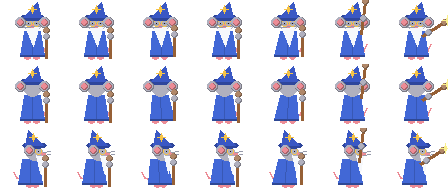
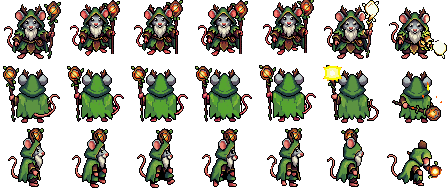
High-res pixel-art wizard and pirate (PixelLab), both upright
- The wizard is a mouse druid (leaf cloak, hood, white beard, staff with a glowing orb),
  the pirate a mouse pirate (tricorn, eye patch, striped shirt, flintlocks): PixelLab
  frames in tools/art/pixellab/<name>/ (idle, walk 4, act 2 for south/north/east), laid out
  by kit.write_pixellab_upright; restyle copies them as they are (AS_IS).
- The pirate is upright now (64 px cells, rows toward/away/side) like the golem and the
  wizard; the old top-down pirate is gone from mice.py.

diff --git a/tools/art/units/wizard.py b/tools/art/units/wizard.py
@@ -1,8 +1,9 @@
 """
-The wizard: a cute old mouse, upright like the golem (64 px cells; rows towards / away / side, the game mirrors the
-side for left). Blue robe, pointy hat with a star, a long white beard, round glasses and a cane; big round ears poke out
-under the brim and a thin tail curls out under the robe. Walk: the robe sways, the cane taps. Act (casting): the cane
-raised high, then pointed forwards with a spark at its tip.
+The wizard: a cute old mouse druid (grey face, big ears, white beard, a pink tail; a layered green leaf cloak with a
+hood and twig antlers; a twisted staff with a glowing orb). Drawn with PixelLab (character "Wizard Mouse Druid", 64 px,
+low top-down) and kept in tools/art/pixellab/wizard/: idle, a walk of 4 and a cast (staff raised, then thrust
+forward) for south, north and east, laid out as the game's upright sheet (kit.pixellab_upright). The pixel art is
+finished, so restyle copies it as it is (restyle.AS_IS).
 
     python tools/art/units/wizard.py && python tools/art/restyle.py <the files it lists>
 """
@@ -10,91 +11,7 @@ import os
 import sys
 
 sys.path.insert(0, os.path.dirname(os.path.dirname(os.path.abspath(__file__))))
-from kit import *  # noqa: E402,F403
-
-C = 64
-FEET = C - 6
-ROBE = (66, 104, 214)
-HAT = (58, 88, 196)
-BEARD = (246, 248, 252)
-CANE = (150, 96, 54)
-SWAY = [0, 2, 0, -2]  # the robe's hem, per walk step
-
-
-def star(d, cx, cy, r, color=YELLOW):
-    d.polygon([(cx, cy - r), (cx + r // 3, cy - r // 3), (cx + r, cy), (cx + r // 3, cy + r // 3),
-               (cx, cy + r), (cx - r // 3, cy + r // 3), (cx - r, cy), (cx - r // 3, cy - r // 3)], fill=color)
-
-
-def wizard(facing, pose, step):
-    img, d = canvas(C, C)
-    side = facing == "side"
-    sway = SWAY[step] if pose == "walk" else 0
-    cx = C // 2 - (2 if side else 0)
-    head_x = cx + (4 if side else 0)  # a slight stoop: the head ahead of the body in profile
-    head_y = 25
-    # feet peeping out under the hem, stepping in turn
-    lift = (step % 2) * 2 if pose == "walk" else 0
-    for i, fx in enumerate((cx - 5, cx + 4) if not side else (cx - 1, cx + 5)):
-        d.ellipse((fx - 3, FEET - 3 - (lift if i == step % 2 else 0), fx + 3, FEET + 1), fill=PINK)
-    # the tail curls out under the robe at the back
-    tail_x = cx - 13 if side else cx + 12
-    d.line((cx + (-6 if side else 6), FEET - 4, tail_x, FEET - 8, tail_x + (-3 if side else 3), FEET - 14), fill=PINK, width=2)
-    # the robe: wider at the hem, swaying while it walks
-    top = 31
-    d.polygon([(cx - 8, top), (cx + 8, top), (cx + 12 + sway, FEET - 3), (cx - 12 + sway, FEET - 3)], fill=ROBE)
-    d.line((cx - 12 + sway, FEET - 3, cx + 12 + sway, FEET - 3), fill=tint(ROBE, -0.3), width=2)
-    d.line((cx, top + 2, cx + sway // 2, FEET - 4), fill=tint(ROBE, -0.15))
-    # head
-    d.ellipse((head_x - 8, head_y - 8, head_x + 8, head_y + 7), fill=MOUSE)
-    if facing != "away":
-        nose_x = head_x + (9 if side else 0)
-        # the beard: long and white, hanging from under the nose
-        if side:
-            d.polygon([(head_x + 2, head_y + 2), (head_x + 9, head_y + 3), (head_x + 6, head_y + 20)], fill=BEARD)
-        else:
-            d.polygon([(head_x - 7, head_y + 1), (head_x + 7, head_y + 1), (head_x + 1, head_y + 21)], fill=BEARD)
-        d.ellipse((nose_x - 2, head_y - 1, nose_x + 2, head_y + 2), fill=PINK)
-        # whiskers
-        for dy in (-1, 2):
-            d.line((nose_x - (0 if side else 9), head_y + dy, nose_x + 7, head_y + dy - 1), fill=GREY)
-        # round glasses and small kind eyes
-        for gx in ([head_x + 4] if side else [head_x - 4, head_x + 4]):
-            d.ellipse((gx - 3, head_y - 5, gx + 3, head_y + 1), outline=YELLOW)
-            d.point((gx, head_y - 2), fill=INK)
-    # the pointy hat, its tip bent back a little, with a star
-    brim_y = head_y - 8
-    d.ellipse((head_x - 12, brim_y - 3, head_x + 12, brim_y + 3), fill=tint(HAT, -0.2))
-    tip = (head_x - 6, 2) if side else (head_x + 5, 2)
-    d.polygon([(head_x - 9, brim_y), (head_x + 9, brim_y), tip], fill=HAT)
-    star(d, head_x + (0 if not side else -1), brim_y - 8, 4)
-    # big round ears poking out under the brim
-    ears = [(head_x - 5, head_y - 3)] if side else [(head_x - 12, head_y - 3), (head_x + 12, head_y - 3)]
-    for ex, ey in ears:
-        disc(d, ex, ey, 5, MOUSE, shine=False)
-        disc(d, ex, ey, 3, PINK, shine=False)
-    # the cane and the hand holding it
-    if pose == "act" and step == 0:  # raised high over the hat
-        hand, top_end, bottom_end = (cx + 11, 18), (cx + 13, 1), (cx + 9, 34)
-    elif pose == "act":  # pointed forwards, a spark at the tip
-        hand, top_end, bottom_end = (cx + 12, 32), (cx + 28, 22), (cx + 6, 36)
-    else:  # leaning on it, tapping it down while walking
-        tap = -2 if pose == "walk" and step in (1, 3) else 0
-        x = cx + (14 if not side else 15)
-        hand, top_end, bottom_end = (x, 36 + tap), (x, 30 + tap), (x, FEET + tap)
-    d.line((*bottom_end, *top_end), fill=CANE, width=3)
-    disc(d, top_end[0], top_end[1], 3, tint(CANE, 0.25), shine=False)
-    disc(d, hand[0], hand[1], 3, MOUSE, shine=False)
-    if pose == "act" and step == 1:
-        star(d, top_end[0] + 3, top_end[1] - 2, 5, (250, 240, 140))
-    return img
-
-
-def main():
-    save(unit_sheet(wizard, cell=C), "Units/wizard_sheet.png")
-    save(wizard("toward", "idle", 0), "Units/wizard.png")
-    print("Units/wizard_sheet.png Units/wizard.png")
-
+from kit import write_pixellab_upright  # noqa: E402
 
 if __name__ == "__main__":
-    main()
+    print(" ".join(write_pixellab_upright("wizard")))

diff --git a/tools/art/units/mice.py b/tools/art/units/mice.py
@@ -4,7 +4,6 @@ The mice seen from above (nose east, turned by the game), on two legs:
   farmer        - straw hat, blue overalls, a carrot; act = picking (reach down, lift)
   scout         - green cap, binoculars; act = looking through them
   cheese_hunter - red headband, boxing gloves; act = punching (wind up, hit)
-  pirate        - tricorn, eye patch, striped shirt, flintlock; act = aim, fire (puff)
   samurai       - red kabuto with a gold crest, dark gi, katana; act = sword drawn back, swept across (slash)
 
     python tools/art/units/mice.py && python tools/art/restyle.py <the files it lists>
@@ -55,11 +54,6 @@ def headband(d, hx, hy):
     d.line((hx - 7, hy, hx - 12, hy + 2), fill=RED, width=2)
 
 
-def tricorn(d, hx, hy):
-    d.polygon([(hx + 5, hy), (hx - 6, hy - 7), (hx - 3, hy), (hx - 6, hy + 7)], fill=HAT)
-    d.line((hx + 4, hy, hx - 4, hy - 5), fill=tint(YELLOW, -0.2))
-    d.line((hx + 4, hy, hx - 4, hy + 5), fill=tint(YELLOW, -0.2))
-    disc(d, hx, hy, 2, WHITE, shine=False)
 
 
 # ---- held things and actions (hand = (x, y) of the right hand, the south side) ----
@@ -120,24 +114,10 @@ def back_glove(d, info):
     disc(d, bx + 3 + swing, cy - 10, 4, RED)
 
 
-def pistol(d, x, y, pose, step):
-    d.rectangle((x - 1, y - 1, x + 2, y + 2), fill=WOOD)
-    d.rectangle((x + 2, y - 1, x + 9, y), fill=STEEL)           # barrel, pointing forward
 
 
-def aiming(info):
-    bx, cy = info["body"]
-    return {"hand": (bx + 15, cy + 5)}
 
 
-def patch_and_puff(d, info):
-    hx, hy = info["head"]
-    d.line((hx - 6, hy - 6, hx + 5, hy + 1), fill=INK)          # the eye patch's strap
-    d.ellipse((hx + 2, hy - 5, hx + 6, hy - 1), fill=INK)       # the patch over the left eye
-    if info["pose"] == "act" and info["step"] == 1:
-        x, y = info["hand"]
-        for dx, dy, r in ((13, 0, 3), (15, -2, 2), (15, 2, 2)):
-            d.ellipse((x + dx - r, y + dy - r, x + dx + r, y + dy + r), fill=WHITE)
 
 
 KABUTO = (176, 44, 52)
@@ -181,8 +161,6 @@ def main():
                                               extra=binocular_eyes))
     write("cheese_hunter", lambda p, s: topdown_mouse(p, s, hat=headband, shirt=YELLOW, held=glove, act=punching,
                                                       extra=back_glove))
-    write("pirate", lambda p, s: topdown_mouse(p, s, hat=tricorn, shirt=WHITE, stripes=RED, held=pistol, act=aiming,
-                                               extra=patch_and_puff))
     write("samurai", lambda p, s: topdown_mouse(p, s, hat=kabuto, shirt=GI, held=katana, act=swinging, extra=slash))
     print(" ".join(WRITTEN))
 

diff --git a/tools/art/kit.py b/tools/art/kit.py
@@ -276,6 +276,41 @@ def strip_sheet(cell_fn):
     return sheet
 
 
+UPRIGHT_ROWS = {"toward": "south", "away": "north", "side": "east"}
+
+
+def pixellab_upright(name, cell=64):
+    """
+    Finished upright pixel art (PixelLab, tools/art/pixellab/<name>/: idle_<dir>, walk_<dir>_0..3, act_<dir>_0..1 for
+    south, north and east) as a cell function for unit_sheet: bigger canvases are cropped round their centre (where the
+    character is), and every row stands on its idle frame's feet at the feet line (UI/UnitSheets.FeetY = cell - 6).
+    """
+    folder = os.path.join(HERE, "pixellab", name)
+
+    def frame(file):
+        img = Image.open(os.path.join(folder, file + ".png")).convert("RGBA")
+        w, h = img.size
+        return img.crop(((w - cell) // 2, (h - cell) // 2, (w - cell) // 2 + cell, (h - cell) // 2 + cell))
+
+    def cell_fn(facing, pose, step):
+        d = UPRIGHT_ROWS[facing]
+        img = frame({"idle": f"idle_{d}", "walk": f"walk_{d}_{step}", "act": f"act_{d}_{step}"}[pose])
+        shift = (cell - 6) - (frame(f"idle_{d}").getbbox()[3] - 1)
+        out = Image.new("RGBA", (cell, cell), (0, 0, 0, 0))
+        out.paste(img, (0, shift), img)
+        return out
+
+    return cell_fn
+
+
+def write_pixellab_upright(name, cell=64):
+    """Writes Units/<name>_sheet.png and the idle icon Units/<name>.png; returns their paths (for restyle)."""
+    cell_fn = pixellab_upright(name, cell)
+    save(unit_sheet(cell_fn, cell=cell), f"Units/{name}_sheet.png")
+    save(cell_fn("toward", "idle", 0), f"Units/{name}.png")
+    return [f"Units/{name}_sheet.png", f"Units/{name}.png"]
+
+
 def unit_sheet(cell_fn, columns=7, cell=CELL, poses=None):
     """Lays out the sheet: rows towards / away / side, columns idle, walk 0-3, act 0-1 (UI/UnitSheets), then any
     extra poses given (the golem's slam)."""

diff --git a/factory-td/Scripts/UI/UnitSheets.cs b/factory-td/Scripts/UI/UnitSheets.cs
@@ -6,7 +6,7 @@ namespace FactoryTD.UI;
 public enum UnitLayout
 {
 	TopDown, // seen from above, nose east, turned the way it goes: one row (idle, walk 1-4, act 1-2) - the mice
-	Upright, // seen from the front, never turned: rows towards / away / side (left = side mirrored) - golem, wizard
+	Upright, // seen from the front, never turned: rows towards / away / side (left = side mirrored) - golem, wizard, pirate
 	Vehicle, // seen from above and turned, one row of wheel frames - the RC car
 }
 
@@ -49,7 +49,7 @@ public static class UnitSheets
 
 	public static UnitLayout Layout(UnitType type) => type switch
 	{
-		UnitType.BrickGolem or UnitType.Wizard => UnitLayout.Upright,
+		UnitType.BrickGolem or UnitType.Wizard or UnitType.PlasticSoldier => UnitLayout.Upright,
 		UnitType.RcCar => UnitLayout.Vehicle,
 		_ => UnitLayout.TopDown,
 	};
@@ -70,7 +70,7 @@ public static class UnitSheets
 	public static int CellSize(UnitType type) => type switch
 	{
 		UnitType.BrickGolem => 80, // the biggest; the body is at most ~60 px wide (fits a 1-tile gap)
-		UnitType.Wizard => 64,
+		UnitType.Wizard or UnitType.PlasticSoldier => 64,
 		_ => 48,
 	};
 

diff --git a/tools/art/restyle.py b/tools/art/restyle.py
@@ -68,6 +68,8 @@ VIVID = {"cheese.png", "melted_cheese.png", "cheese_melter.png", "clover.png", "
 # (none at the moment).
 SOFT = set()
 # Pictures kept as they are, only outlined: the user's own finished sprites (the palette has no sunflower yellow).
+# Finished pixel art (PixelLab, tools/art/pixellab): copied as it is, no palette or outline.
+AS_IS = {"Units/wizard_sheet.png", "Units/wizard.png", "Units/pirate_sheet.png", "Units/pirate.png"}
 KEEP = {"sunflower.png", "carrot.png", "cabbage.png", "flowers.png", "plantbed.png", "garden_path.png"}
 
 
@@ -234,6 +236,9 @@ def main(only=None):
             dst = os.path.join(SPRITES, rel, name)
             os.makedirs(os.path.dirname(dst), exist_ok=True)
             if rel == "Tiles" and name == "floor_wood.png":
+                continue
+            if os.path.join(rel, name).replace(os.sep, "/") in AS_IS:
+                shutil.copyfile(src, dst)
                 continue
             if rel == "Tiles" and name == "wall.png":
                 shutil.copyfile(src, dst)  # the wall keeps its original look

diff --git a/tests/FactoryTD.Sim.Tests/UnitAnimationTests.cs b/tests/FactoryTD.Sim.Tests/UnitAnimationTests.cs
@@ -166,10 +166,11 @@ public class UnitAnimationTests
 	[Fact]
 	public void Mice_AreTopDown_TheGolemUpright_TheCarAVehicle()
 	{
-		foreach (var mouse in new[] { UnitType.Builder, UnitType.Farmer, UnitType.Scout, UnitType.CheeseHunter, UnitType.PlasticSoldier })
+		foreach (var mouse in new[] { UnitType.Builder, UnitType.Farmer, UnitType.Scout, UnitType.CheeseHunter })
 			Assert.Equal(UnitLayout.TopDown, UnitSheets.Layout(mouse));
 		Assert.Equal(UnitLayout.Upright, UnitSheets.Layout(UnitType.BrickGolem));
 		Assert.Equal(UnitLayout.Upright, UnitSheets.Layout(UnitType.Wizard));
+		Assert.Equal(UnitLayout.Upright, UnitSheets.Layout(UnitType.PlasticSoldier));
 		Assert.Equal(UnitLayout.Vehicle, UnitSheets.Layout(UnitType.RcCar));
 		Assert.Equal(3, UnitSheets.Column(new UnitFrame(Facing.Left, PoseKind.Walk, 2)));
 		Assert.Equal(6, UnitSheets.Column(new UnitFrame(Facing.Away, PoseKind.Act, 1)));

diff --git a/tools/art/units/pirate.py b/tools/art/units/pirate.py
@@ -1,0 +1,17 @@
+"""
+The pirate (the plastic soldier): a cute mouse pirate (grey face, big ears, an eye patch, a pink tail; a black tricorn
+with a skull, a red bandana, a striped shirt and a vest; flintlock pistols). Drawn with PixelLab (character "Pirate
+Mouse", 64 px, low top-down) and kept in tools/art/pixellab/pirate/: idle, a walk of 4 and a shot (aim, then fire with a
+flash or a puff) for south, north and east, laid out as the game's upright sheet (kit.pixellab_upright). The pixel art is
+finished, so restyle copies it as it is (restyle.AS_IS).
+
+    python tools/art/units/pirate.py && python tools/art/restyle.py <the files it lists>
+"""
+import os
+import sys
+
+sys.path.insert(0, os.path.dirname(os.path.dirname(os.path.abspath(__file__))))
+from kit import write_pixellab_upright  # noqa: E402
+
+if __name__ == "__main__":
+    print(" ".join(write_pixellab_upright("pirate")))

diff --git a/CLAUDE.md b/CLAUDE.md
@@ -53,8 +53,8 @@ Hinder (stora leksaker/växter) = `TileType.Obstacle`: stoppar gång och bygge, 
 - Samurajmus (`UnitType.Samurai`, `SamuraiStats` i Unit.cs): närkämpe vars svärd sveper bågen framför sig och träffar
   alla fiender där (max 5, `DamageKind.Slash`: halv mot golems). Byggs i dojon (`BuildingType.Dojo`, en pagod från sidan
   som piratskeppet (`KeepsUpright`): senseimusen vid dörren vänder sig (`Motion.Turn`, speglar) och ropar (`Motion.Pop`)). Boten: modulen "samurajer" + armérotationen.
-- Trollkarlsmus (`UnitType.Wizard`, `WizardStats` i Unit.cs): gammal mus med blå mantel, spetsig hatt, käpp och vitt
-  skägg, upprätt som golemen. Kallar ner en blixt (`DamageKind.Lightning`, dubbelt mot plast) på platsen där målet stod:
+- Trollkarlsmus (`UnitType.Wizard`, `WizardStats` i Unit.cs): gammal musdruid (grön lövmantel med huva, vitt skägg,
+  stav med glödande klot), upprätt som golemen. Kallar ner en blixt (`DamageKind.Lightning`, dubbelt mot plast) på platsen där målet stod:
   en projektil som inte följer målet, liten yta, de träffade kastas bakåt (samma kast som golemens slag). Mot byggnader
   en enkel blixt på 50 %. Lite dyr (2 batterier + kretskort + fjäder). Tornet (`BuildingType.WizardTower`) ses från
   sidan och reser sig en ruta över sin yta (`KeepsUpright`; delar får gå så högt). Blixtens utseende: `UI/BoltLook.cs`.
@@ -64,8 +64,8 @@ Hinder (stora leksaker/växter) = `TileType.Obstacle`: stoppar gång och bygge, 
   marken: områdesskada på enheter runt den (inte genom väggar) och de kastas utåt (`Push*` + `AirTicks`). Höjden ritas
   bara (`UnitAnimation.Lift/Spin`), skuggan ligger kvar på golvet; i luften faller man inte i falluckor förrän man
   landar. Ringen ritas från `World.RecentSlams`. Enheters räckvidd mot enheter når målets kant (`toEdge`).
-- Enheter: möss ovanifrån som vrids, nosen österut i spriten; golemen står upprätt och vrids aldrig
-  (`UI/UnitSheets.cs`, `UI/UnitAnimation.cs`).
+- Enheter: möss ovanifrån som vrids, nosen österut i spriten; golemen, trollkarlen och piraten står upprätt och vrids
+  aldrig (rader mot/bort/sida, `UI/UnitSheets.cs`, `UI/UnitAnimation.cs`). Trollkarlen och piraten är PixelLab-pixelkonst.
 
 ## Kodstruktur
 - `Scripts/Sim/`: `World` (20 tick/s) i partials: `World.cs` (placering, tick-ordning, kontrollsumma), `WorldPower`,
@@ -112,4 +112,6 @@ Hinder (stora leksaker/växter) = `TileType.Obstacle`: stoppar gång och bygge, 
 - `HAND_EDITED` i `kit.py` = sprites användaren gjort klart för hand: skripten skriver aldrig över dem.
   Användarens egna bilder ligger i `tools/art/reference/`; `KEEP`/`SOFT` i restyle styr deras färger.
 - Under luminans 0,2 blir kontursvart, ljusa pasteller blir grå: välj mättade färger. Lagfärger via shader.
+- Färdig pixelkonst från PixelLab ligger i `tools/art/pixellab/<namn>/` (rutor per riktning); skriptet lägger ut dem som
+  ark (`units/wizard.py`) och restyle kopierar dem som de är (`AS_IS`).
 - PixelLab MCP finns för sprites (stil: top-down, cute toy, plastic, bright saturated, clean dark outline, 64x64).
